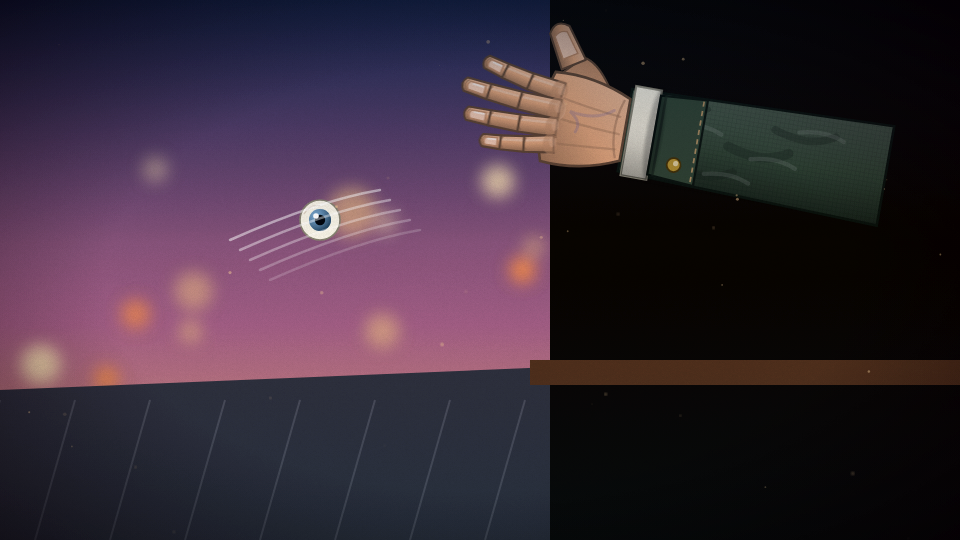
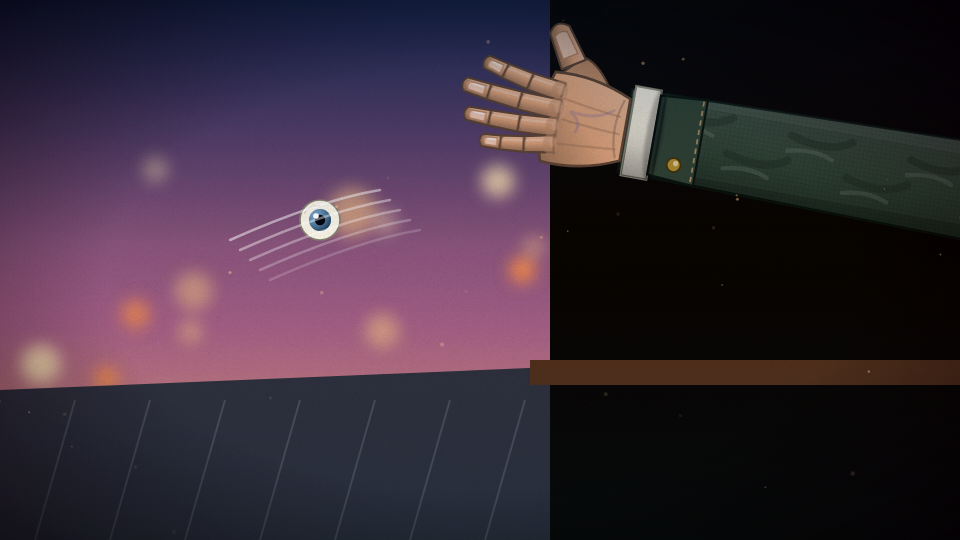
De Wiart: sleeves run off-frame so arms are no longer cut off; reposition nurse hands
Claude-Session: https://claude.ai/code/session_01HJTnHQbVYqSQYcyeJ9oY6S

Changed region(s): [[0.8125, 0.2074, 1.0, 0.4444]]

diff --git a/story/de-wiart/video/src/stills/lib.tsx b/story/de-wiart/video/src/stills/lib.tsx
@@ -338,7 +338,7 @@ export const arms = {
 
 /* =============================== detailed close-up hand (back of the hand) =============================== */
 /** wrist at (0,0), fingers toward +y. kind: open | relaxed | point | grip | pinch. Sleeve runs up to y=-300. */
-export const HandCU: React.FC<{kind?: 'open' | 'relaxed' | 'point' | 'grip' | 'pinch'; skin?: string; sleeve?: string; cuff?: string; shirt?: string; id?: string}> = ({kind = 'relaxed', skin = '#e0a880', sleeve = '#3a4a3a', cuff, shirt = '#ece6d6', id = 'hc'}) => {
+export const HandCU: React.FC<{kind?: 'open' | 'relaxed' | 'point' | 'grip' | 'pinch'; skin?: string; sleeve?: string; cuff?: string; shirt?: string; id?: string; len?: number}> = ({kind = 'relaxed', skin = '#e0a880', sleeve = '#3a4a3a', cuff, shirt = '#ece6d6', id = 'hc', len = 1700}) => {
   const d = mix(skin, '#000000', 0.32), l = mix(skin, '#ffffff', 0.22), m = mix(skin, '#000000', 0.14), ln = mix(skin, '#000000', 0.55);
   const sd = mix(sleeve, '#000000', 0.4), sl = mix(sleeve, '#ffffff', 0.12);
   // finger: three tapered phalanges with joint creases, a nail on the back
@@ -373,10 +373,13 @@ export const HandCU: React.FC<{kind?: 'open' | 'relaxed' | 'point' | 'grip' | 'p
         <linearGradient id={`${id}S`} x1="0" y1="0" x2="1" y2="0"><stop offset="0" stopColor={sl} /><stop offset=".55" stopColor={sleeve} /><stop offset="1" stopColor={sd} /></linearGradient>
       </defs>
       {/* sleeve: tube with folds, weave, stitched cuff, button, shirt cuff beneath */}
-      <path d="M-58 -304 L-48 0 L48 0 L58 -304 Z" fill={`url(#${id}S)`} stroke={mix(sleeve, '#000000', 0.6)} strokeWidth="3" />
-      <rect x={-58} y={-304} width={116} height={304} fill="url(#weaveS)" opacity=".7" />
-      {[[-34, -240, 4], [-6, -190, 5], [26, -130, 4], [-40, -90, 3], [14, -60, 3]].map(([fx, fy, w], i) => <path key={i} d={`M${fx} ${fy} q${18} ${26} ${4} ${70}`} stroke={sd} strokeWidth={w * 2.2} fill="none" opacity=".35" strokeLinecap="round" />)}
-      {[[-30, -250], [10, -200], [36, -150], [-14, -110]].map(([fx, fy], i) => <path key={i} d={`M${fx} ${fy} q-10 22 -2 52`} stroke="#fff" strokeWidth="5" fill="none" opacity=".1" strokeLinecap="round" />)}
+      <path d={`M-84 ${-len} L-48 0 L48 0 L84 ${-len} Z`} fill={`url(#${id}S)`} stroke={mix(sleeve, '#000000', 0.6)} strokeWidth="3" />
+      <clipPath id={`${id}C`}><path d={`M-84 ${-len} L-48 0 L48 0 L84 ${-len} Z`} /></clipPath>
+      <g clipPath={`url(#${id}C)`}>
+        <rect x={-90} y={-len} width={180} height={len} fill="url(#weaveS)" opacity=".7" />
+        {Array.from({length: Math.floor(len / 70)}, (_, i) => { const fy = -120 - i * 70, fx = ((i * 37) % 70) - 35; return <g key={i}><path d={`M${fx} ${fy} q${18} ${26} ${4} ${70}`} stroke={sd} strokeWidth={9} fill="none" opacity=".32" strokeLinecap="round" /><path d={`M${fx + 24} ${fy + 20} q-10 22 -2 52`} stroke="#fff" strokeWidth="5" fill="none" opacity=".1" strokeLinecap="round" /></g>; })}
+        <rect x={-90} y={-len} width={50} height={len} fill="#fff" opacity=".05" /><rect x={40} y={-len} width={50} height={len} fill="#000" opacity=".12" />
+      </g>
       <rect x={-52} y={-34} width={104} height={30} fill={shirt} stroke="#8a8676" strokeWidth="2.5" /><rect x={-52} y={-34} width={104} height={30} fill="url(#sideShade)" opacity=".7" />
       <path d="M-50 -88 L-46 -34 L46 -34 L50 -88 Z" fill={cuff ?? sleeve} stroke={mix(sleeve, '#000000', 0.6)} strokeWidth="2.5" /><path d="M-48 -84 H48" stroke="#d9ab78" strokeWidth="2" strokeDasharray="6 5" opacity=".7" /><path d="M-47 -40 H47" stroke={sd} strokeWidth="3" opacity=".6" />
       <circle cx={30} cy={-62} r={8} fill="#b0903a" stroke="#4a3a14" strokeWidth="2" /><circle cx={28} cy={-64} r={3} fill="#fff" opacity=".5" />

diff --git a/story/de-wiart/video/src/stills/S2.tsx b/story/de-wiart/video/src/stills/S2.tsx
@@ -533,7 +533,7 @@ const S3_9: React.FC = () => (
       {[0.2, 0.4, 0.6, 0.8].map((k, i) => <ellipse key={i} cx={1200} cy={770} rx={540 * k} ry={160 * k} fill="none" stroke="#fff" strokeWidth={4} opacity={0.7 - i * 0.12} />)}
       <ellipse cx={1200} cy={770} rx={60} ry={18} fill="#fff" opacity=".5" />{Array.from({length: 16}, (_, i) => <circle key={i} cx={1200 + Math.cos(i) * (80 + (i % 5) * 20)} cy={740 - (i % 4) * 36} r={5 + (i % 3) * 3} fill="#e8f4ff" opacity=".8" />)}
       <g transform="translate(1200 420)"><ellipse rx={26} ry={18} fill="#5a5a5a" stroke="#2a2a2a" strokeWidth={3} /><ellipse cx={-6} cy={-5} rx={9} ry={5} fill="#fff" opacity=".35" /></g>
-      <g transform="translate(560 220) rotate(150) scale(1.74)"><HandCU kind="open" skin="#e0a880" sleeve="#e8e0d0" /></g>
+      <g transform="translate(700 330) rotate(-35) scale(1.5)"><HandCU kind="open" skin="#e0a880" sleeve="#e8e0d0" /></g>
       <g opacity=".4">{[0, 1, 2].map((i) => <path key={i} d={`M${1010 - i * 20} ${380 + i * 14} q80 20 150 40`} stroke="#fff" strokeWidth={5} fill="none" strokeLinecap="round" />)}</g>
     </Par>
     <Par d={1}><Motes n={50} seed={6} c="#fff0d0" o={0.4} /></Par>

diff --git a/story/de-wiart/video/src/stills/S4.tsx b/story/de-wiart/video/src/stills/S4.tsx
@@ -166,8 +166,8 @@ const S4_14: React.FC = () => (
       <path d="M720 490 q10 22 -2 40" stroke="#c4281c" strokeWidth={14} fill="none" opacity=".6" strokeLinecap="round" />
       <path d="M580 400 L860 440 M590 450 L860 500 M610 500 L840 540" stroke="#aaa392" strokeWidth={2} fill="none" />
       {/* the nurse's hands winding the roll */}
-      <g transform="translate(1180 330) rotate(150) scale(1.36)"><HandCU kind="relaxed" skin="#e8b48a" sleeve="#f2f0e8" /></g>
-      <g transform="translate(1260 860) rotate(30) scale(1.24)"><HandCU kind="open" skin="#e8b48a" sleeve="#f2f0e8" /></g>
+      <g transform="translate(1330 330) rotate(100) scale(1.25)"><HandCU kind="relaxed" skin="#e8b48a" sleeve="#f2f0e8" /></g>
+      <g transform="translate(1370 700) rotate(80) scale(1.2)"><HandCU kind="open" skin="#e8b48a" sleeve="#f2f0e8" /></g>
       <path d="M860 420 Q1000 400 1080 520" stroke="#ece8d8" strokeWidth={30} fill="none" strokeLinecap="round" />
     </Par>
   </Frame>
